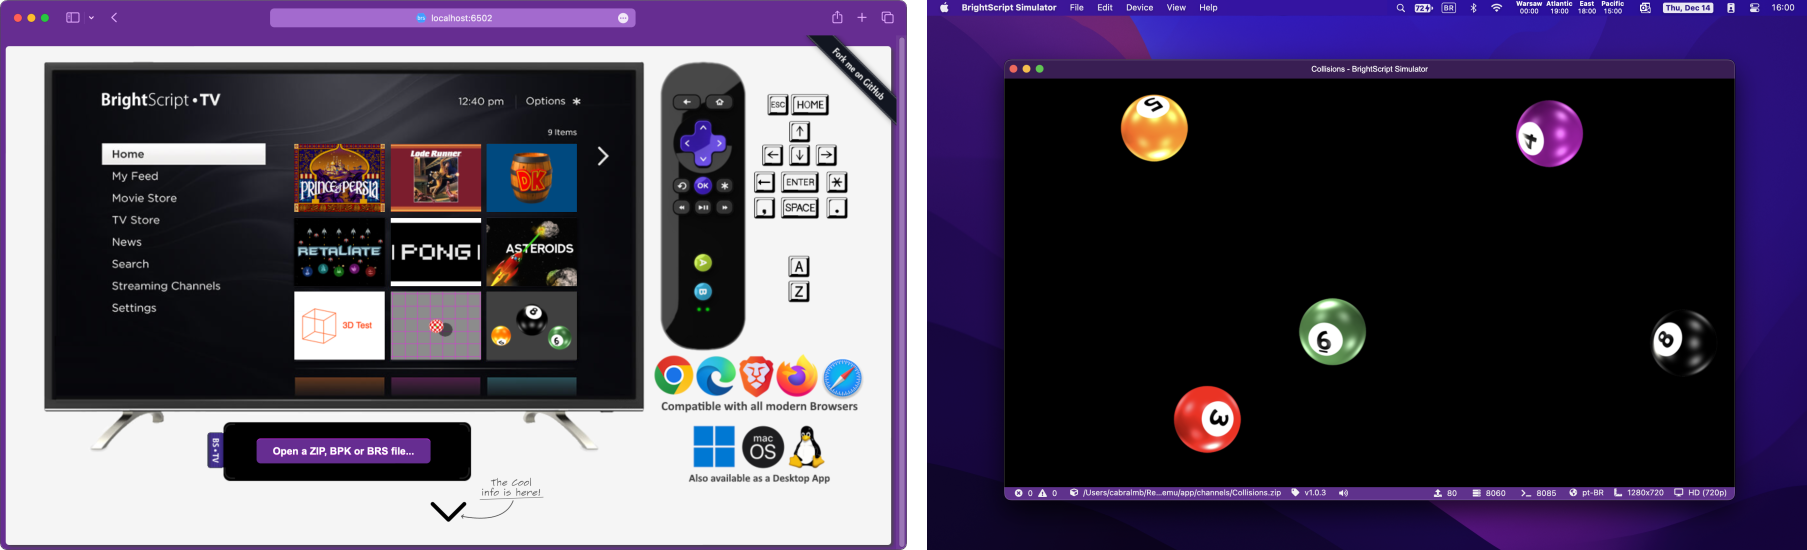
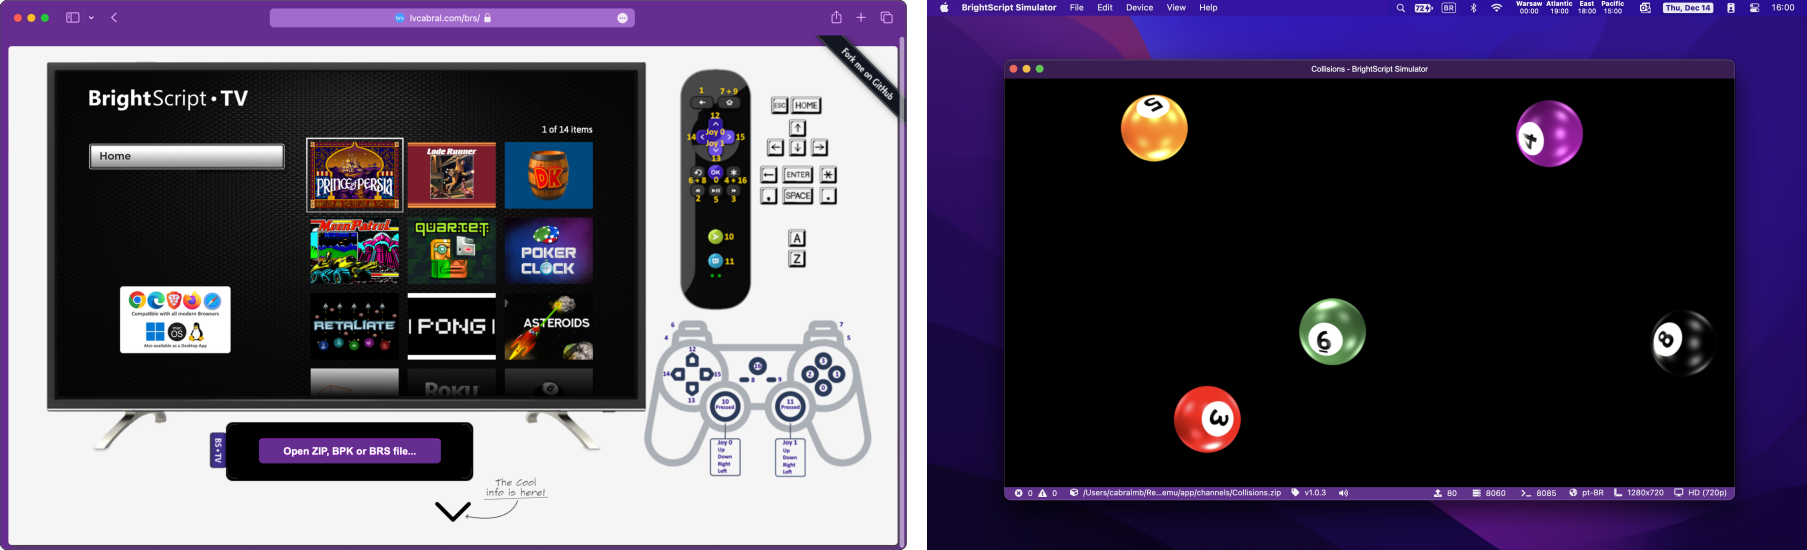
Added support to customize GamePad buttons mapping

diff --git a/src/api/control.ts b/src/api/control.ts
@@ -14,6 +14,8 @@ import gameControl, { GCGamepad, EventName } from "esm-gamecontroller.js";
 // https://github.com/rokucommunity/vscode-brightscript-language/blob/master/docs/Debugging/remote-control-mode.md
 // https://www.freecodecamp.org/news/javascript-keycode-list-keypress-event-key-codes/
 // https://w3c.github.io/gamepad/#remapping
+
+// Keyboard Mapping
 const keysMap: Map<string, string> = new Map();
 keysMap.set("ArrowUp", "up");
 keysMap.set("ArrowDown", "down");
@@ -47,6 +49,8 @@ keysMap.set("PageUp", "fwd");
 keysMap.set("Insert", "info");
 keysMap.set("Control+KeyA", "a");
 keysMap.set("Control+KeyZ", "b");
+
+// Game Pad Mapping
 const axesMap = new Map([
     [0, ["up", "down", "left", "right"]],
     [1, ["up", "down", "left", "right"]],
@@ -69,7 +73,10 @@ const buttonsMap = new Map([
     [14, "left"],
     [15, "right"],
     [16, "info"],
+    [17, "home"],
 ]);
+
+// Roku Remote Mapping
 const rokuKeys: Map<string, number> = new Map([
     ["back", 0],
     ["back", 0],
@@ -96,13 +103,20 @@ let disableKeys: boolean = false;
 
 export function initControlModule(array: Int32Array, options: any = {}) {
     sharedArray = array;
-    if (options.customKeys instanceof Map) {
-        addControlKeys(options.customKeys);
-    }
     if (typeof options.disableKeys === "boolean") {
         disableKeys = options.disableKeys;
     }
+    if (options.customKeys instanceof Map && !disableKeys) {
+        addControlKeys(options.customKeys);
+    }
     if (!options.disableGamePads) {
+        if (options.customPadButtons instanceof Map) {
+            options.customPadButtons.forEach(function (value: string, button: number) {
+                if (button >= 0 && button < 32 && value.length) {
+                    buttonsMap.set(button, value);
+                }
+            });
+        }
         gameControl.on("connect", gamePadOnHandler);
         gameControl.on("disconnect", gamePadOffHandler);
     }

diff --git a/docs/engine-api.md b/docs/engine-api.md
@@ -8,7 +8,7 @@ Check the [documentation](docs/integrating.md) to learn how to start using it. T
 
 | Method | Description | Parameters / Details|
 | --- | --- | --- |
-|initialize(`customDeviceInfo?`, `options?`)|Initializes the engine simulated device|<ul><li>`customDeviceInfo?` (object): customized device information, see [/src/api/package.ts](/src/api/package.ts) for valid properties.</li><li>`options?` (object): init options, valid properties are:<br>- `debugToConsole`(boolean): if `false` prevents messages to be sent to the `console`, you still can get debug messages using the `debug` event, default is `true`.<br>- `showStats`(boolean): if `true` the performance statistics overlay will be shown over the display when the app is running, default is `false`.<br>- `disableGamePads`(boolean): Set this option to `true` if you want to disable the GamePad remote control emulation, default is `false`<br>- `disableKeys`(boolean): if the engine is running on a device with no keyboard, or you don't need keyboard control, set this option to `true` and disable the default keyboard remote control emulation, default is `false`<br>- `customKeys`(Map): a custom map of keyboard keys to add/remove from the remote control emulation, see [/src/api/control.ts](/src/api/control.ts) for the default mappings.</li>|
+|initialize(`customDeviceInfo?`, `options?`)|Initializes the engine simulated device|<ul><li>`customDeviceInfo?` (object): customized device information, see [/src/api/package.ts](/src/api/package.ts) for valid properties.</li><li>`options?` (object): init options, valid properties are:<br>- `debugToConsole`(boolean): if `false` prevents messages to be sent to the `console`, you still can debug messages via `debug` event, default is `true`.<br>- `showStats`(boolean): if `true` the performance statistics overlay will be shown over the display when the app is running, default is `false`.<br>- `disableGamePads`(boolean): Set this option to `true` if you want to disable the GamePad Remote control support, default is `false`<br>- `disableKeys`(boolean): if the engine is running on a device with no keyboard, or you don't need keyboard control, set this option to `true` to disable keyboard control, default is `false`<br>- `customKeys`(Map): a custom map of keyboard keys to add/remove from the remote control simulation, see [/src/api/control.ts](/src/api/control.ts) for the default mappings.<br>- `customPadButtons`(Map): a custom map of GamePad buttons (0-31) to add/remove from the remote control simulation, see [/src/api/control.ts](/src/api/control.ts) for the default mappings.</li>|
 |subscribe(`observerId`, `observerCallback`)|Subscribes to the engine events (see list below) |<ul><li>`observerId` (string): identifier of the subscriber process.</li><li>`observerCallback` (function): callback function to receive the events from the engine.</li>|
 |unsubscribe(`observerId`)|Unsubscribes to the engine events|<ul><li>`observerId` (string): identifier of the subscriber process.</li>|
 |execute(`filePath`, `fileData`, `options?`)|Loads and run an app package (`.zip`/`.bpk`), a source code file (`.brs`) or plain text BrightScript code|<ul><li>`filePath` (string): path of the loaded file, make sure extension is `.zip` or `.bpk` if loading a full app.</li><li>`fileData` (ArrayBuffer/Blob/string): contents of the file or just a string with BrightScript code.</li><li>`options?` (object): execution options, valid properties are:<br>- `clearDisplayOnExit` (boolean): if `false` the display will keep the last image when app ends, default is `true`.<br>- `muteSound` (boolean): if `true` the engine will mute all audio but events are still raised, default is `false`.<br>- `execSource` (string): the execution source to be sent on the input params (see [Roku docs](https://developer.roku.com/en-gb/docs/developer-program/getting-started/architecture/dev-environment.md#source-parameter)).<br>- `debugOnCrash` (boolean): if `true` stops on the Micro Debugger when a crash happens, default is `false`.<br>- `password` (string): the password to decrypt a `.bpk`, or encrypt a `.zip` package, default is "".</li>|
